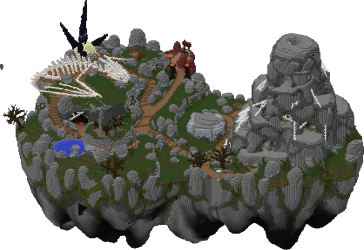
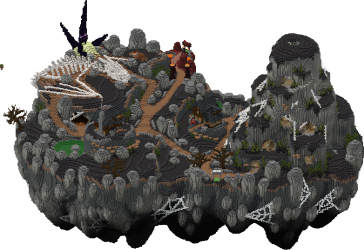
fix(gui): update islands coordinates and images Closes #203
Thanks to Hypixel Skyblock Wiki for the
visual assets used to adjust the gui.
Attribution is available in NOTICES.md.

Changed region(s): [[0.0302, 0.112, 1.0, 0.98], [0.4835, 0.168, 0.5137, 0.196]]

diff --git a/src/main/java/com/fix3dll/skyblockaddons/gui/screens/IslandWarpGui.java b/src/main/java/com/fix3dll/skyblockaddons/gui/screens/IslandWarpGui.java
@@ -244,18 +244,18 @@ public class IslandWarpGui extends SkyblockAddonsScreen {
         THE_PARK("The Park", 160, 440),
         SPIDERS_DEN("Spider's Den", 740, 470),
         DEEP_CAVERNS("Deep Caverns", 1610, 245),
-        THE_FORGE("The Forge", 2260, 218), // exception
-        DWARVEN_MINES("Dwarven Mines", 2060, 340),
-        DWARVEN_BASE_CAMP("Dwarven Base Camp", 2260, 462),
-        CRYSTAL_HOLLOWS("Crystal Hollows", 2460, 584),
+        THE_FORGE("The Forge", 2200, 218),
+        DWARVEN_MINES("Dwarven Mines", 2000, 340),
+        DWARVEN_BASE_CAMP("Dwarven Base Camp", 2200, 462),
+        CRYSTAL_HOLLOWS("Crystal Hollows", 2000, 96),
         GOLD_MINE("Gold Mine", 1360, 500),
         MUSHROOM_DESERT("Mushroom Desert", 1830, 600),
-        THE_BARN("The Barn", 1410, 870),
+        THE_BARN("The Barn", 1500, 870),
         HUB("Hub", 510, 820),
         PRIVATE_ISLAND("Private Island", 385, 1172),
         THE_GARDEN("The Garden", 160, 1050),
         DUNGEON_HUB("Dungeon Hub", 1890, 1117),
-        JERRYS_WORKSHOP("Jerry's Workshop", 1660, 1239),
+        JERRYS_WORKSHOP("Jerry's Workshop", 605, 1239),
         THE_RIFT("The Rift", 2120, 995),
         BACKWATER_BAYOU("Backwater Bayou", 1285, 1250),
         GALATEA("Galatea", -140, 240),
@@ -318,18 +318,18 @@ public class IslandWarpGui extends SkyblockAddonsScreen {
 
         LOTUS_ATOLL("lotus", Translations.getMessage("warpMenu.spawn"), Island.LOTUS_ATOLL, 60, 240),
 
-        HUB("hub", Translations.getMessage("warpMenu.spawn"), Island.HUB, 630, 230),
-        ELIZABETH("elizabeth", "Elizabeth", Island.HUB, 700, 180),
-        CASTLE("castle", "Castle", Island.HUB, 130, 80),
-        DARK_AUCTION("da", "Sirius Shack", Island.HUB, 445, 430),
-        CRYPT("crypt", "Crypts", Island.HUB, 440, 80),
-        WIZARD_TOWER("wizard", "Wizard Tower", Island.HUB, 510, 270),
-        MUSEUM("museum", "Museum", Island.HUB, 320, 240),
-        TRADE_CENTER("stonks", "Trade Center", Island.HUB, 540, 175),
+        HUB("hub", Translations.getMessage("warpMenu.spawn"), Island.HUB, 555, 215),
+        ELIZABETH("elizabeth", "Elizabeth", Island.HUB, 495, 185),
+        CASTLE("castle", "Castle", Island.HUB, 155, 70),
+        DARK_AUCTION("da", "Sirius Shack", Island.HUB, 450, 440),
+        CRYPT("crypt", "Crypts", Island.HUB, 505, 75),
+        WIZARD_TOWER("wizard", "Wizard Tower", Island.HUB, 500, 310),
+        MUSEUM("museum", "Museum", Island.HUB, 620, 275),
+        TRADE_CENTER("stonks", "Trade Center", Island.HUB, 640, 160),
         CARNIVAL("carnival", "Carnival", Island.HUB, 440, 160),
 
-        SPIDERS_DEN("spider", Translations.getMessage("warpMenu.spawn"), Island.SPIDERS_DEN, 315, 250),
-        SPIDERS_DEN_NEST("nest", "Top of Nest", Island.SPIDERS_DEN, 390, 50),
+        SPIDERS_DEN("spider", Translations.getMessage("warpMenu.spawn"), Island.SPIDERS_DEN, 290, 250),
+        SPIDERS_DEN_NEST("nest", "Top of Nest", Island.SPIDERS_DEN, 395, 60),
         ARACHNES_SANCTUARY("arachne", "Arachne's Sanctuary", Island.SPIDERS_DEN, 220, 135),
 
         THE_PARK("park", Translations.getMessage("warpMenu.spawn"), Island.THE_PARK, 420, 350),
@@ -339,9 +339,9 @@ public class IslandWarpGui extends SkyblockAddonsScreen {
         GALATEA("galatea", Translations.getMessage("warpMenu.spawn"), Island.GALATEA, 160, 260),
         MURKWATER_LOCH("murkwater", "Murkwater Loch", Island.GALATEA, 220, 140),
 
-        THE_END("end", Translations.getMessage("warpMenu.spawn"), Island.THE_END, 440, 291),
+        THE_END("end", Translations.getMessage("warpMenu.spawn"), Island.THE_END, 465, 290),
         DRAGONS_NEST("drag", "Dragon's Nest", Island.THE_END, 260, 240),
-        VOID_SEPULTURE("void", "Void Sepulture", Island.THE_END, 370, 200),
+        VOID_SEPULTURE("void", "Void Sepulture", Island.THE_END, 370, 190),
 
         CRIMSON_ISLE("nether", Translations.getMessage("warpMenu.spawn"), Island.CRIMSON_ISLE, 70, 280),
         FORGOTTEN_SKULL("kuudra", "Forgotten Skull", Island.CRIMSON_ISLE, 450, 100),
@@ -350,9 +350,9 @@ public class IslandWarpGui extends SkyblockAddonsScreen {
         SCARLETON("scarleton", "Scarleton", Island.CRIMSON_ISLE, 400, 220),
         SMOLDERING_TOMB("smoldering", "Smoldering Tomb", Island.CRIMSON_ISLE, 480, 140),
 
-        THE_BARN("barn", Translations.getMessage("warpMenu.spawn"), Island.THE_BARN, 140, 150),
+        THE_BARN("barn", Translations.getMessage("warpMenu.spawn"), Island.THE_BARN, 200, 230),
         MUSHROOM_DESERT("desert", Translations.getMessage("warpMenu.spawn"), Island.MUSHROOM_DESERT, 250, 320),
-        TRAPPER("trapper", "Trapper's Hut", Island.MUSHROOM_DESERT, 185, 85),
+        TRAPPER("trapper", "Trapper's Hut", Island.MUSHROOM_DESERT, 190, 85),
         MOBYS_SHOP("glowing", "Moby's Shop", Island.MUSHROOM_DESERT, 165, 165),
 
         GOLD_MINE("gold", Translations.getMessage("warpMenu.spawn"), Island.GOLD_MINE, 86, 259),

diff --git a/src/main/java/com/fix3dll/skyblockaddons/gui/buttons/IslandMarkerButton.java b/src/main/java/com/fix3dll/skyblockaddons/gui/buttons/IslandMarkerButton.java
@@ -50,7 +50,7 @@ public class IslandMarkerButton extends SkyblockAddonsButton {
         float x = centerX - (width / 2);
         float y = centerY - (height / 2);
 
-        float alpha = hovered ? (IslandWarpGui.selectedMarker == this.marker ? 1.0F : 0.9F) : 0.6F;
+        float alpha = hovered ? (IslandWarpGui.selectedMarker == this.marker ? 1.0F : 0.8F) : 0.6F;
         int color = ARGB.white(alpha);
 
         Matrix3x2fStack poseStack = graphics.pose();
